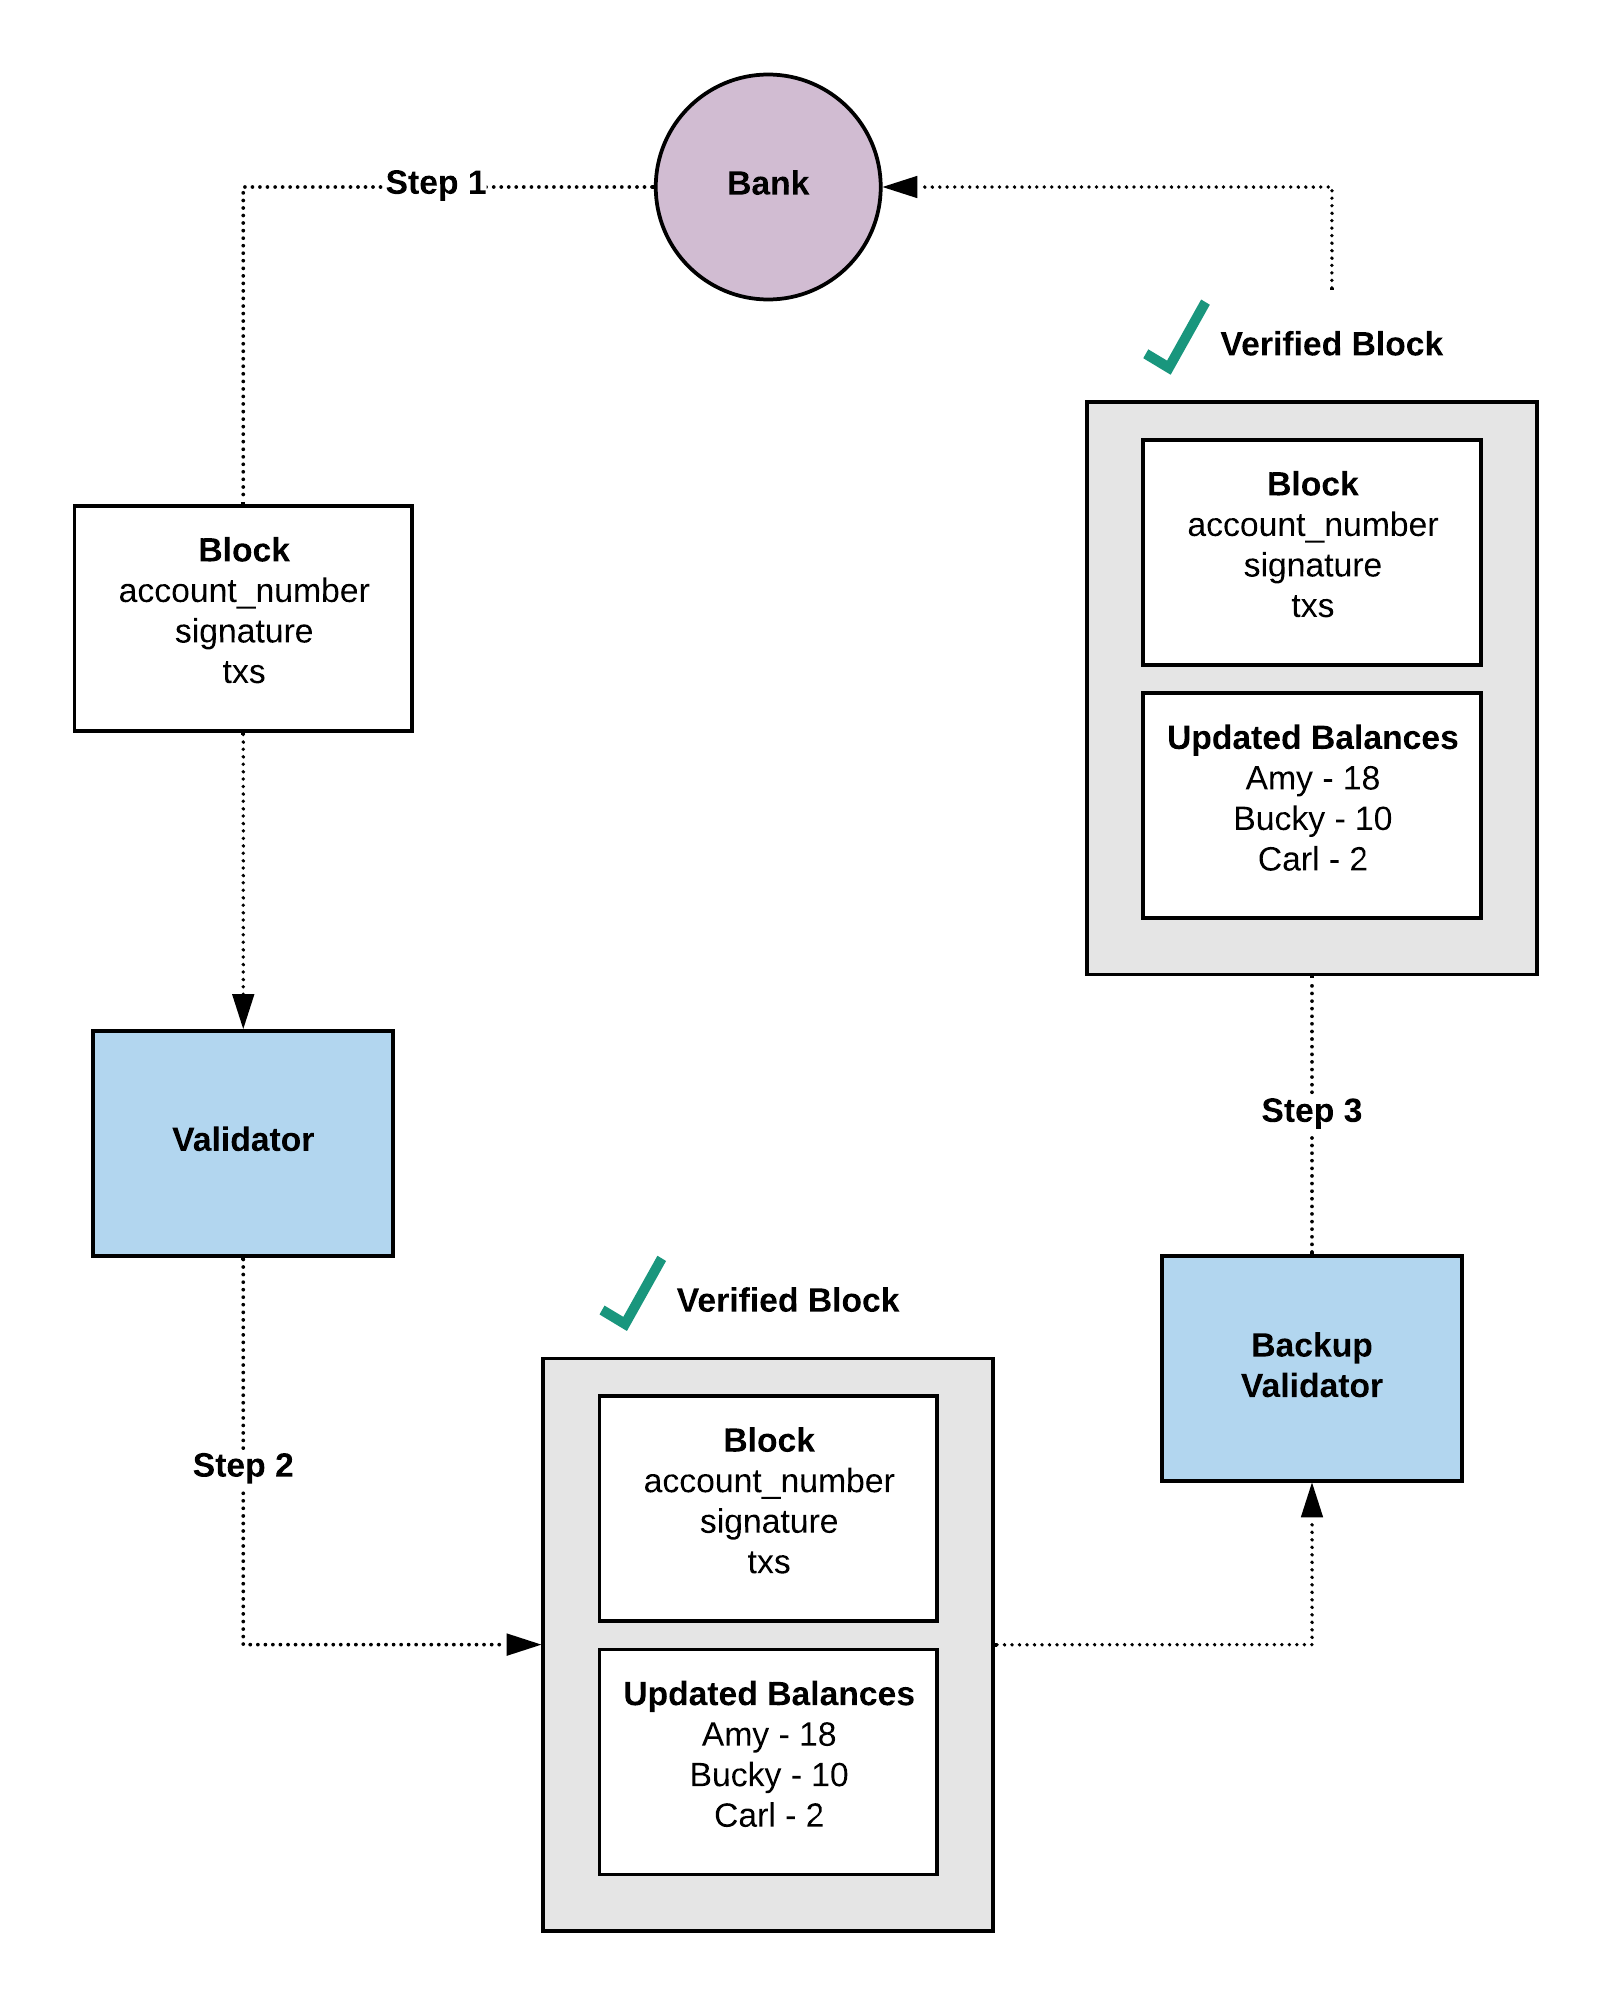
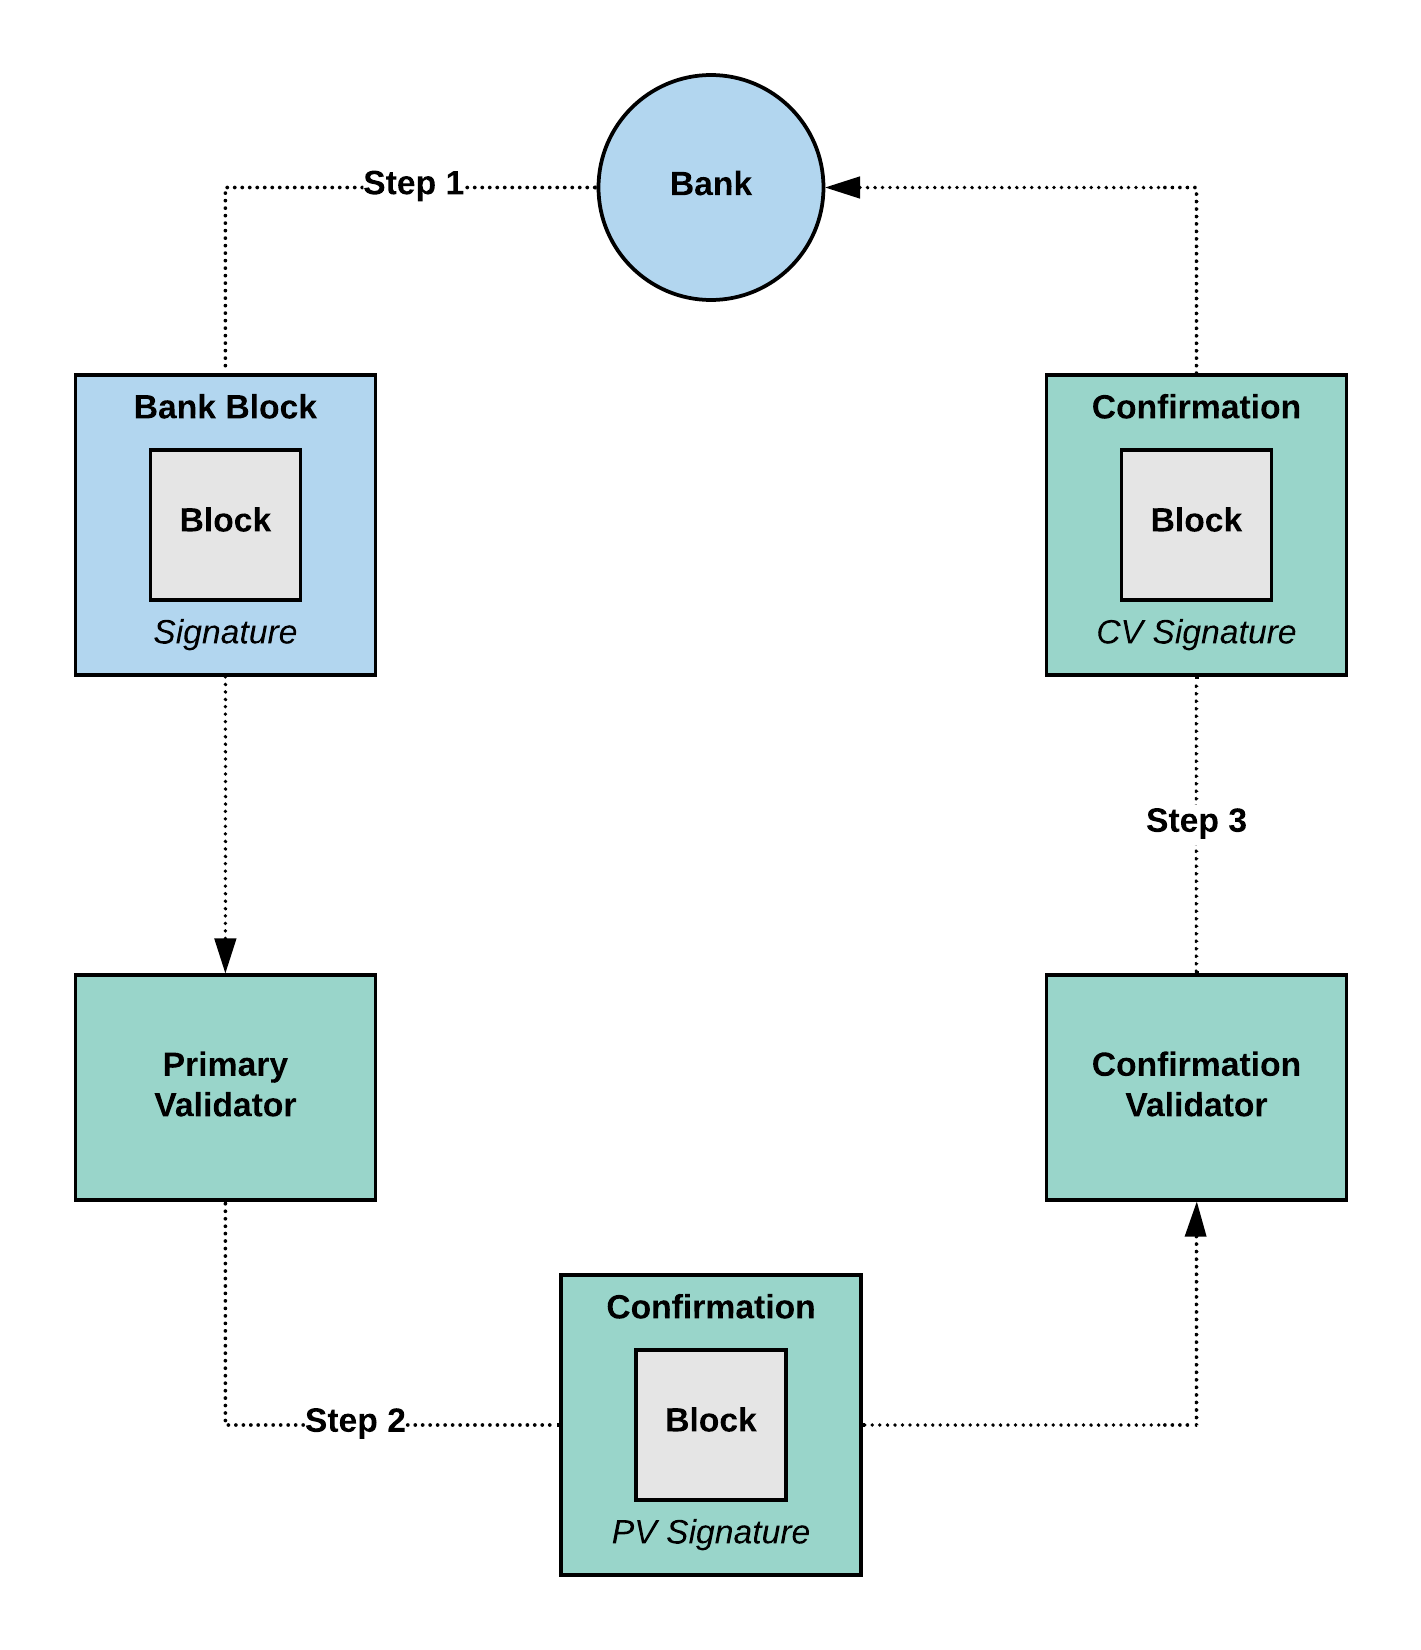
Working on Confirmations

diff --git a/src/containers/Docs/Confirmations/index.tsx b/src/containers/Docs/Confirmations/index.tsx
@@ -1,6 +1,6 @@
 import React from 'react';
 
-import ConfirmationsDiagram from './Confirmations.png';
+import ConfirmationServicesSimple from './ConfirmationServicesSimple.png';
 import ConfirmationServiceCycle from './ConfirmationServiceCycle.png';
 import UpdatedFlow from './UpdatedFlow.png';
 
@@ -9,27 +9,28 @@ import './Confirmations.scss';
 const Confirmations = () => {
   return (
     <section className="Confirmations">
-      <h1 className="page-title">Confirmations</h1>
+      <h1 className="page-title">Confirmation</h1>
       <p>
-        Backup validators are able to provide confirmation services to all banks in the network. These services are
-        offered at a time based rate, which are determined by the validators themselves. Confirmation services are the
-        backup validators method of confirming/re-validating blocks from the primary validator. An example rate that a
-        backup validator might give to the banks may be "100 points per week". When a bank wishes to purchase
-        confirmation services, the bank will send a transaction to the backup validators account for an amount based on
-        the length of time they wish to purchase.
+        Confirmation validators are able to provide confirmation services to all banks in the network. These services
+        are offered at a time based rate, which are determined by the validators themselves. Confirmation services are
+        the confirmation validators method of confirming/re-validating blocks from the primary validator. An example
+        rate that a confirmation validator might give to the banks may be "100 points per week". When a bank wishes to
+        purchase confirmation services, the bank will send a transaction to the confirmation validators account for an
+        amount based on the length of time they wish to purchase.
       </p>
       <p>
-        Any transaction made from banks to backup validators (aside from registration costs) will be seen as a purchase
-        of confirmation services. Therefore, transactions may be sent directly to the primary validator. When a backup
-        validator receives that block including a transaction to their own account, they will inspect the sender and if
-        the account number matches a registered bank then they will either:
+        Any transaction made from banks to confirmation validators (aside from registration costs) will be seen as a
+        purchase of confirmation services. Therefore, transactions may be sent directly to the primary validator. When a
+        confirmation validator receives that block including a transaction to their own account, they will inspect the
+        sender and if the account number matches a registered bank then they will either:
       </p>
 
       <ul>
         <li>add that amount of additional time to the banks existing confirmation service</li>
         <ul>
           <li>
-            this occurs when the sending bank already has an active confirmation service with that backup validator
+            this occurs when the sending bank already has an active confirmation service with that confirmation
+            validator
           </li>
         </ul>
         <li>begin confirming blocks and forwarding them to that bank</li>
@@ -42,65 +43,60 @@ const Confirmations = () => {
       </ul>
 
       <p>
-        Banks purchasing confirmation services from backup validators is very similar to buying gas for a car. Instead
-        of buying gas, banks are purchasing time. Banks can purchase as little or as much as they want from each backup
-        validator.
+        Banks purchasing confirmation services from confirmation validators is very similar to buying gas for a car.
+        Instead of buying gas, banks are purchasing time. Banks can purchase as little or as much as they want from each
+        confirmation validator.
       </p>
       <p>
-        After a bank has purchased confirmation services from a backup validator, that validator will then forward all
-        validated blocks to that bank immediately after confirmation. Members of banks prefer when their banks purchase
-        confirmation services from multiple backup validators (the more the better) because confirmations are a backup
-        validator's way of saying "These transactions and updated account balances have been verified and backed up. If
-        I ever become the primary validator then these balances remain secured".
-      </p>
-
-      <div className="img-container">
-        <img alt="confirmations diagram" className="confirmations-diagram" src={ConfirmationsDiagram} />
-      </div>
-
-      <p>
-        Note that when purchasing confirmation services from backup validators, banks may choose to receive all
-        validated blocks, or only validated blocks that contain transactions related to their members. Some banks may
-        prefer all blocks so they can verify all network data themselves, while others may prefer only blocks containing
-        member transactions to keep network traffic limited.
-      </p>
-      <p>
-        Another critical benefit to this system is that since all backup validators validate all blocks generated from
-        the primary validator and immediately forward those results to any bank who has purchased their confirmation
-        services, this also acts as a way for the network to keep banks updated in real time of any new transactions so
-        that the banks can notify their members. Given that the backup validators broadcast to the banks directly, there
-        are no additional requests that need to be continually made from the banks to other banks, or banks to primary
-        validator checking on the status of their transactions. A more detailed look at the confirmation cycle is
-        outlined below.
+        After a bank has purchased confirmation services from a confirmation validator, that validator will then forward
+        all validated blocks to that bank immediately after confirmation. Banks registered user accounts prefer when
+        their banks purchase confirmation services from multiple confirmation validators (the more the better) because
+        confirmations are a confirmation validator's way of saying "These transactions and updated account balances have
+        been verified and backed up. If I ever become the primary validator then these balances remain secured".
       </p>
 
       <div className="img-container">
         <img
-          alt="confirmation service cycle diagram"
-          className="confirmation-service-cycle-diagram"
-          src={ConfirmationServiceCycle}
+          alt="confirmations services simple"
+          className="confirmations-services-simple"
+          src={ConfirmationServicesSimple}
         />
+      </div>
+
+      <p>
+        Another critical benefit to this system is that since confirmation validators verify all blocks generated from
+        the primary validator and immediately forward those results to any bank who has purchased their confirmation
+        services, this also acts as a way for the network to keep banks updated in real time of any new transactions so
+        that the banks can notify their account owners. Given that the confirmation validators broadcast to the banks
+        directly, there are no additional requests that need to be continually made from the banks to other banks, or
+        banks to primary validator checking on the status of their transactions. A more detailed look at the
+        confirmation cycle is outlined below.
+      </p>
+
+      <div className="img-container">
+        <img alt="confirmation service cycle" className="confirmation-service-cycle" src={ConfirmationServiceCycle} />
       </div>
 
       <p>Confirmation service (step numbers referenced in the diagram above):</p>
 
-      <ol>
+      <ol className="mb-20">
         <li>Banks will send blocks with the bundled transactions to the primary validator</li>
         <li>
-          Upon successful validation, the primary validate will forward the verified block to all backup validators
+          Upon successful validation, the primary validate will forward the verified block to all confirmation
+          validators
         </li>
         <li>
-          The backup validators will re-verify the verified block, and upon successful validation forward that verified
-          block to the bank as a confirmation.
+          The confirmation validators will re-verify the verified block, and upon successful validation forward that
+          verified block to the bank as a confirmation.
         </li>
       </ol>
 
       <p>
-        Technical Note: Backup validators do not send the original verified blocks back to the banks, but rather signed
-        copies of the verified blocks. This offers nonrepudiation and allows banks to provide irrefutable proof to their
-        members of the authentic confirmations. These signed copies are signed for a specific bank. This ensures
-        non-paying banks are not able to listen in for "free confirmations". Members will lose trust in banks that only
-        offer confirmations signed for other banks.
+        Technical Note: Confirmation validators do not send the original verified blocks back to the banks, but rather
+        signed copies of the verified blocks. This offers nonrepudiation and allows banks to provide irrefutable proof
+        to their members of the authentic confirmations. These signed copies are signed for a specific bank. This
+        ensures non-paying banks are not able to listen in for "free confirmations". Members will lose trust in banks
+        that only offer confirmations signed for other banks.
       </p>
 
       <div className="img-container">

diff --git a/src/containers/Docs/Confirmations/Confirmations.scss b/src/containers/Docs/Confirmations/Confirmations.scss
@@ -1,2 +1,10 @@
 .Confirmations {
+  img {
+    &.confirmation-service-cycle {
+      max-width: 640px;
+    }
+    &.confirmations-services-simple {
+      max-width: 740px;
+    }
+  }
 }
